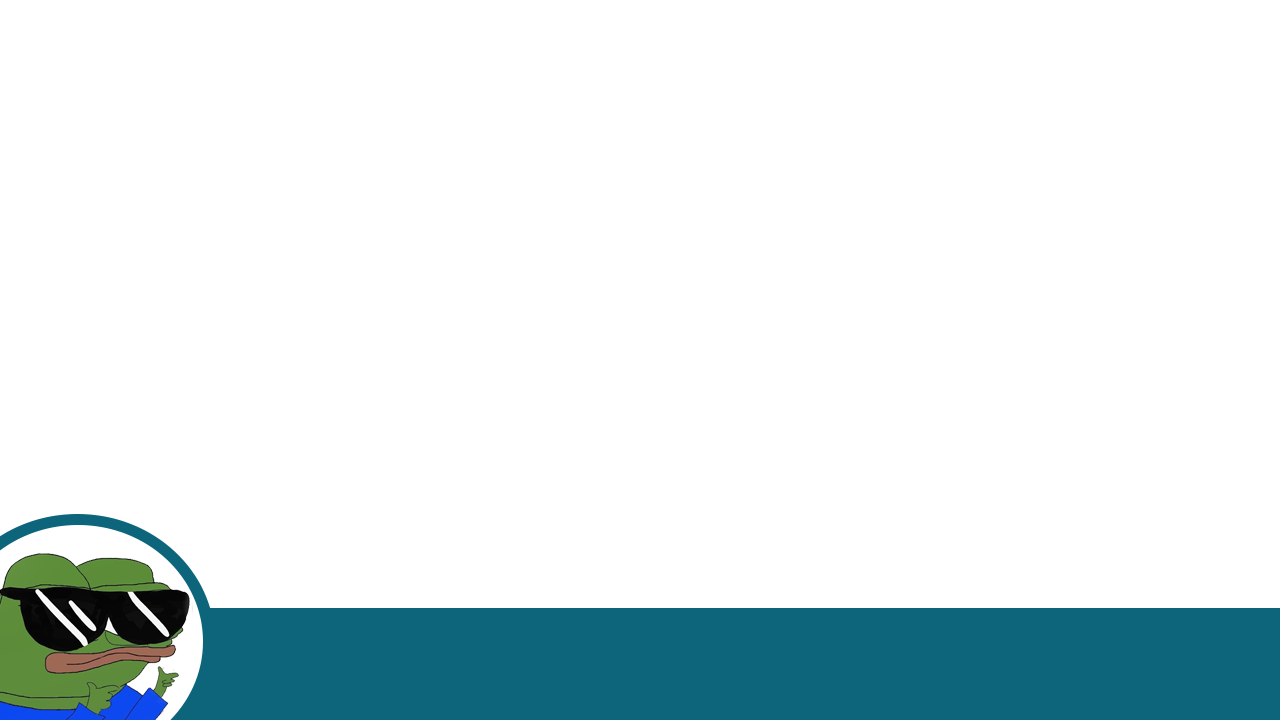
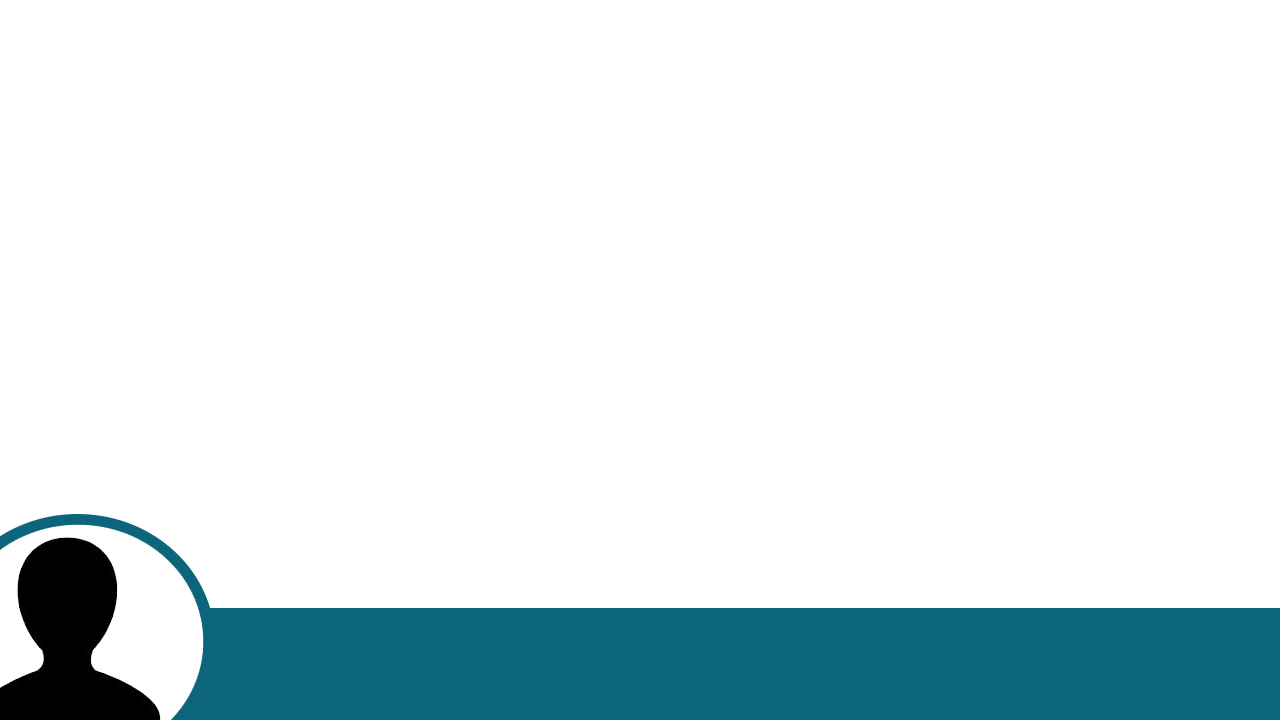
Cambio detalles, adios pepe :'C

Changed region(s): [[0.0, 0.7333, 0.1562, 1.0]]

diff --git a/src/main/java/com/example/tp_final_laboraotirio_iii/SceneController.java b/src/main/java/com/example/tp_final_laboraotirio_iii/SceneController.java
@@ -36,6 +36,7 @@ public class SceneController {
     private static final int MaximoIntentosEventos = 2;
     private int ContadorIntentosEventos = 0, notaTPBuffini, notaChulde, notaTPBatizzi, iteradorExamenChulde = 0,iteradorExamenBatizzi = 0, iteradorExamenBuffini = 0, iteradorExamenMelina, indiceMensajesTeoria = 0, estresClases = 25, estresParciales = 35, notaTPMelina;
     private String[] arregloCopiaTeoria;
+
     //region FXML
     @FXML
     private RadioButton salida,jugarMetegol, juegarPingPong, jugarCartas;
@@ -44,7 +45,7 @@ public class SceneController {
     @FXML
     private TextField txtName, respuestaUsuarioTPFinalMelina, respuestaUsuarioTPFinalChulde, respuestaUsuarioTPFinalBuffini, respuestaUsuarioTPFinalBtzz;
     @FXML
-    private Button noCupongAyudemi,siCupongAyudemi,NoDarPlantaEventoRespuestas,siDarPlataEventoRespuestas,rechazoEventoBuffini,aceptarEventoBuffini,siJugarMetegol,nojugarMetegol, siJugarCartas,nojugarCartas,siJugarPingpong, nojugarpingpong, textoAnteriorClase, comenzarTpFinalChulde, tpFinalChuldeTerminarTp, elegirRespuestaTpFinalChulde, elegirRespuestaTpFinalBatizzi, tpFinalBatizziTerminarTp, comenzarTpFinalBatizzi, elegirRespuestaTpFinalBuffini, comenzarTpFinalBuffini, tpFinalBuffiniTerminarTp, deCafeteriaABuffetGeneral, teCafeteria, jugoCafeteria, lagrimaCafeteria, cortadoCafeteria, cappuchinoCafeteria, cafeConLecheCafeteria, comenzarTpFinalMalenia, tpFinalMeleniaTerminarTp, elegirRespuestaTpFinalMalenia, siguientetextoclase, terminarClase;
+    private Button noCupongAyudemi,siCupongAyudemi,NoDarPlantaEventoRespuestas,siDarPlataEventoRespuestas,rechazoEventoBuffini,aceptarEventoBuffini,siJugarMetegol,nojugarMetegol, siJugarCartas,nojugarCartas,siJugarPingpong, nojugarpingpong, textoAnteriorClase, comenzarTpFinalChulde, tpFinalChuldeTerminarTp, elegirRespuestaTpFinalChulde, elegirRespuestaTpFinalBatizzi, tpFinalBatizziTerminarTp, comenzarTpFinalBatizzi, elegirRespuestaTpFinalBuffini, comenzarTpFinalBuffini, tpFinalBuffiniTerminarTp, comenzarTpFinalMalenia, tpFinalMeleniaTerminarTp, elegirRespuestaTpFinalMalenia, siguientetextoclase, terminarClase;
     //endregion
     //endregion
 
@@ -52,18 +53,11 @@ public class SceneController {
     public void setStage(Stage stage) {
         this.stage = stage;
     }
-
-    public String[] getMensajes() {
-        return arregloCopiaTeoria;
-    }
-
-    public void setMensajes(String[] mensajes) {
-        arregloCopiaTeoria = mensajes;
-    }
     //endregion
 
     //region scenarios
     //region menu principal
+
     public void switchToMenuPrincipal(ActionEvent event) {
         try {
             Parent root = FXMLLoader.load(Objects.requireNonNull(getClass().getResource("/com/example/tp_final_laboraotirio_iii/MenuPrincipal.fxml")));
@@ -511,8 +505,6 @@ public class SceneController {
     //region aula 1
     public void switchToaula1(ActionEvent event) {
         GestionPersonaje pj = new GestionPersonaje();
-        PersonajeRepo repo = new PersonajeRepo();
-        Clases clase = new Clases();
 
         GameData.AsistenciaClase asistencia = GameData.AsistenciaClase.NO_PRESENTE;
 
@@ -545,9 +537,8 @@ public class SceneController {
                     switchToaulaGeneralVacia(event);
                 }
             }
-            case 9, 10, 11, 12, 17 -> {
-                switchToaulaGeneralVacia(event);
-            }
+            case 9, 10, 11, 12, 17 -> switchToaulaGeneralVacia(event);
+
             case 13, 14, 15 -> {
                 if (asistencia.equals(pj.getAsistenciaDia())) {
                     switchToClaseNormalGarielChulde(event);
@@ -569,15 +560,11 @@ public class SceneController {
     //region aula 2
     public void switchToaula2(ActionEvent event) {
         GestionPersonaje pj = new GestionPersonaje();
-        PersonajeRepo repo = new PersonajeRepo();
-        Clases clase = new Clases();
 
         GameData.AsistenciaClase asistencia = GameData.AsistenciaClase.NO_PRESENTE;
 
         switch (pj.ultimoDia()) {
-            case 1, 2, 3, 4, 5, 6, 7, 8, 13, 14, 15, 16, 17 -> {
-                switchToaulaAgustinVacia(event);
-            }
+            case 1, 2, 3, 4, 5, 6, 7, 8, 13, 14, 15, 16, 17 -> switchToaulaAgustinVacia(event);
             case 9, 10, 11 -> {
                 if (asistencia.equals(pj.getAsistenciaDia())) {
                     switchToClaseNormalAdisgutinBatizi(event);
@@ -1638,8 +1625,8 @@ public class SceneController {
         GestionPersonaje gestionPersonaje = new GestionPersonaje();
         Personaje personaje = gestionPersonaje.cargarPersonaje();
         int total = 0;
-        double promedio = 0;
-        int i = 0;
+        double promedio;
+        int i;
 
 
         for(i = 0;i<personaje.getListaNotas().size();i++)

diff --git a/src/main/java/com/example/tp_final_laboraotirio_iii/Modelos/Clases.java b/src/main/java/com/example/tp_final_laboraotirio_iii/Modelos/Clases.java
@@ -2,13 +2,7 @@ package com.example.tp_final_laboraotirio_iii.Modelos;
 
 import com.example.tp_final_laboraotirio_iii.Gestion.GestionPersonaje;
 import com.example.tp_final_laboraotirio_iii.Repositorio.PersonajeRepo;
-import javafx.event.ActionEvent;
-import javafx.fxml.FXML;
-import javafx.scene.control.Button;
-import javafx.scene.control.Label;
-import javafx.stage.Stage;
 
-import java.util.ArrayList;
 import java.util.List;
 
 public class Clases {
@@ -65,7 +59,7 @@ public class Clases {
             ///endregion
 
             ///region Dialogos Agustin
-            String[] dialogoAgustin={"Hola soy Adisgustin Batizi, su profe del tercer cuatrimestre. Me gusta el anime, los patitos de ule, regalar cupones de Ayudemi, tocar el piano y no me gusta que me interrumpa gente en mis clases con brazos rotos,lentes,pelados, etc. Se comenta por los pasillos que soy el mejor profe de la NTU",
+            String[] dialogoAgustin={"Hola soy Adisgustin Batizi, su profe del tercer cuatrimestre. Me gusta el anime, los patitos de ule, regalar cupones de Ayudemi, tocar el piano. Se comenta por los pasillos que soy el mejor profe de la NTU",
                     "Primero comencemos con Tabla Hash, para que mas adelante puedas entender el Hashcode. Esta es una estructura de datos, la cual agrupa claves-valor.Cabe destacar que no poseen un orden y esta compuesta por buckets o slots","Los objetos poseen un hashcode, el cual java transforma en entero para usarlo como entero (utilizado como indice en el bucket). Esto lo hace java con el metodo de dispersion",
                     "Metodo hashcode: Quiza fue chino lo que te dijimos pero ahora cobra sentido. El metodo hashcode permite que un objeto posea un codigo hash.Por defecto si no lo implementamos, Java usa como Hashcode la direccion de memoria algo malo ya que puede generar colisiones (guardar en un mismo bucket diferentes objetos)",
                     "Cuando implementamos el metodo Hashcode debemos elegir los atributos que hagan unico a nuestro objeto ya sea, por ejemplo un Dni, un ID etc.El metodo se creo para ser implementado junto al Equals, un metodo que determina si dos objetos son iguales",
@@ -94,6 +88,8 @@ public class Clases {
             String[] dialogoChaldu3={"Hoy es nuestra ultima clase y veremos Serializacion y Json","Serializacion es la capacidad de transformar un objeto en un flujo de datos para poder ser leido por un programa o ser enviado por red.JSON es un formato de intercambio de datos ligero y de fácil lectura (tanto para los humanos como para las máquinas) que se utiliza para enviar y recibir datos entre distintos contextos (aplicaciones, sistemas, etc)",
                     "Para manejar Json tenemos dos librerias: JACKSON Y GSON\n"+"JACKSON: Para serializar con Jackson se debe utilizar un objeto de tipo ObjectMapper que permite mapear\n"+"GSON:Para serializar con Gson se utilizan las clases BufferedWriter y BufferedReader. "};
             ///endregion
+
+            //region swich dia dialogos
 
             switch (gestionPersonaje.ultimoDia()) {
                 case 1 -> {
@@ -143,7 +139,10 @@ public class Clases {
                     return dialogoChaldu3;
                 }
             }
+            //endregion
+
         }
+
         return auxiliar;
     }
 }

diff --git a/src/main/java/com/example/tp_final_laboraotirio_iii/Modelos/Personaje.java b/src/main/java/com/example/tp_final_laboraotirio_iii/Modelos/Personaje.java
@@ -1,9 +1,5 @@
 package com.example.tp_final_laboraotirio_iii.Modelos;
 
-
-
-import com.example.tp_final_laboraotirio_iii.Repositorio.PersonajeRepo;
-
 import java.io.Serializable;
 import java.util.ArrayList;
 import java.util.Arrays;
@@ -96,7 +92,7 @@ public class Personaje implements Serializable{
     }
     //endregion
 
-    //Metodo para generar una bebida favorita random
+    //region Metodo para generar una bebida favorita random
     private Buffet Random()
     {
         Buffet[]comidas = Buffet.values();
@@ -104,6 +100,7 @@ public class Personaje implements Serializable{
 
         return comidas[random.nextInt(6)];
     }
+    //endregion
 
     //region toString
 
@@ -119,6 +116,5 @@ public class Personaje implements Serializable{
                 ", ListaNotas=" + ListaNotas +
                 '}';
     }
-
-}
 //endregion
+}

diff --git a/src/main/java/com/example/tp_final_laboraotirio_iii/Main.java b/src/main/java/com/example/tp_final_laboraotirio_iii/Main.java
@@ -1,21 +1,11 @@
 package com.example.tp_final_laboraotirio_iii;
 
-import com.example.tp_final_laboraotirio_iii.Gestion.GestionPersonaje;
-import com.example.tp_final_laboraotirio_iii.Modelos.GameData;
-import com.example.tp_final_laboraotirio_iii.Modelos.Personaje;
-import com.example.tp_final_laboraotirio_iii.Repositorio.PersonajeRepo;
 import javafx.application.Application;
-import javafx.event.ActionEvent;
 import javafx.fxml.FXMLLoader;
 import javafx.scene.Parent;
 import javafx.scene.Scene;
-import javafx.scene.control.Button;
-import javafx.scene.control.Control;
 import javafx.stage.Stage;
-
 import java.io.IOException;
-import java.util.ArrayList;
-import java.util.List;
 
 public class Main extends Application {
     @Override

diff --git a/src/main/java/com/example/tp_final_laboraotirio_iii/Gestion/GestionPersonaje.java b/src/main/java/com/example/tp_final_laboraotirio_iii/Gestion/GestionPersonaje.java
@@ -4,7 +4,6 @@ import com.example.tp_final_laboraotirio_iii.Modelos.GameData;
 import com.example.tp_final_laboraotirio_iii.Modelos.Personaje;
 import com.example.tp_final_laboraotirio_iii.Repositorio.PersonajeRepo;
 
-import java.util.ArrayList;
 import java.util.List;
 
 public class GestionPersonaje {
@@ -52,7 +51,7 @@ public class GestionPersonaje {
     public void cambioEstado (int stress){
         if (stress <=45){
             personaje.setEstadoEstres(Personaje.estadoEstres.RELAJADO);
-        } else if (stress <= 70) {
+        } else if (stress <= 75) {
             personaje.setEstadoEstres(Personaje.estadoEstres.NERVIOSO);
         }else {
             personaje.setEstadoEstres(Personaje.estadoEstres.ESTRESADO);
